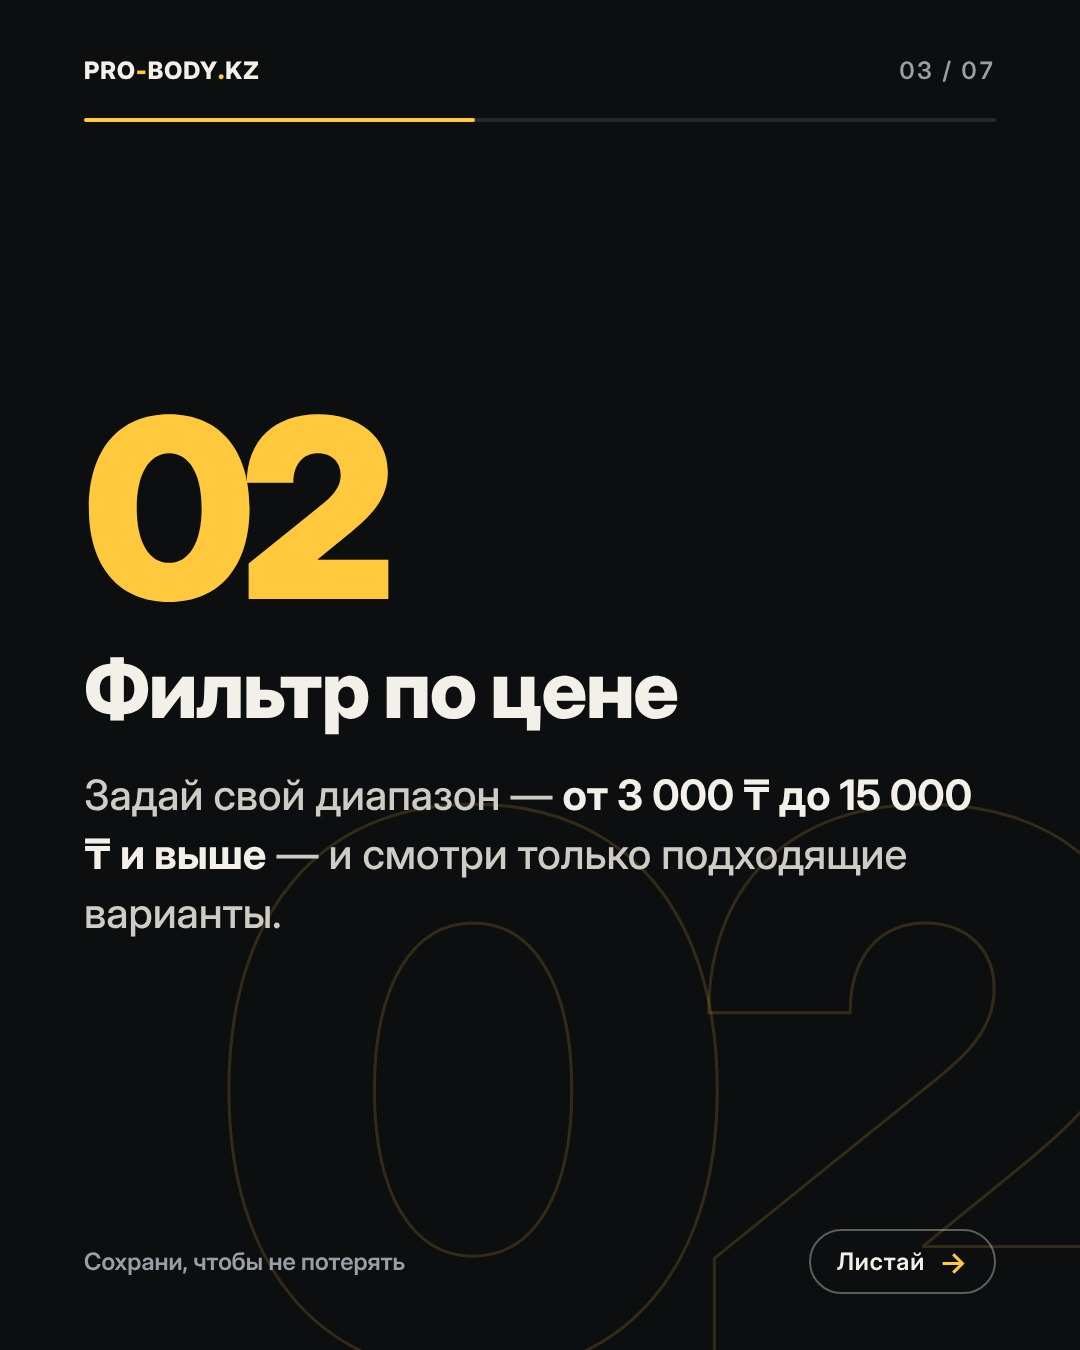
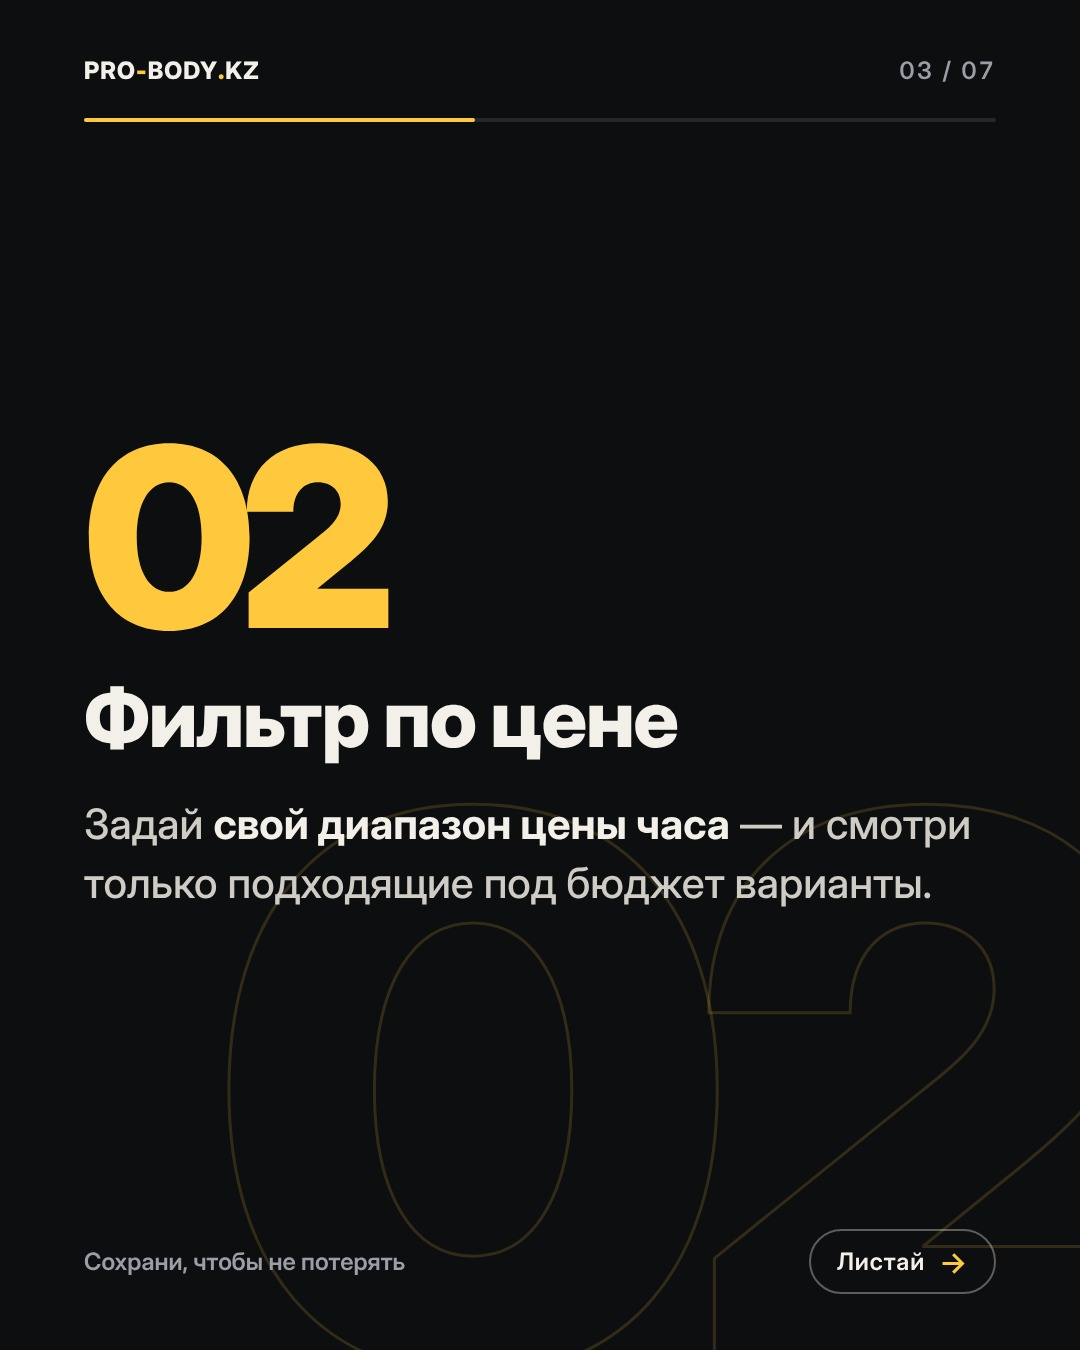
Drop unverified price range from price carousel
Claude-Session: https://claude.ai/code/session_01Ttgfn83Jtao5ELVCPUGwf7

Changed region(s): [[0.0611, 0.28, 0.9167, 0.6844]]

diff --git a/tools/carousels/specs/make_type.py b/tools/carousels/specs/make_type.py
@@ -104,7 +104,7 @@ C["c16"] = dict(slug="c16-price", caption=f"""Сколько стоит масс
 {TAGS} #ценымассаж""", slides=[
  {"type":"typecover","tag":"Цены","big":"₸","title":"Сколько стоит\n*массаж* и как\nне переплатить","sub":"Листай — всё видно до визита."},
  {"type":"text","num":"01","title":"Цена — до звонка","body":"Цена за час указана **прямо в анкете**, на карточке и на метке карты. Никаких «уточните по телефону»."},
- {"type":"text","num":"02","title":"Фильтр по цене","body":"Задай свой диапазон — **от 3 000 ₸ до 15 000 ₸ и выше** — и смотри только подходящие варианты."},
+ {"type":"text","num":"02","title":"Фильтр по цене","body":"Задай **свой диапазон цены часа** — и смотри только подходящие под бюджет варианты."},
  {"type":"text","num":"03","title":"Акции до −50%","body":"В разделе «Акции» — спецпредложения салонов. **Цена до и после скидки** видна сразу."},
  {"type":"text","num":"04","title":"Удобная оплата","body":"В анкете указано, как можно оплатить: **карта, наличные, Kaspi Red, рассрочка** — зависит от салона."},
  {"type":"text","num":"05","title":"Сравни два салона","body":"Добавь анкеты в сравнение и смотри **стаж, рейтинг, услуги и расчёт** рядом на одном экране."},
